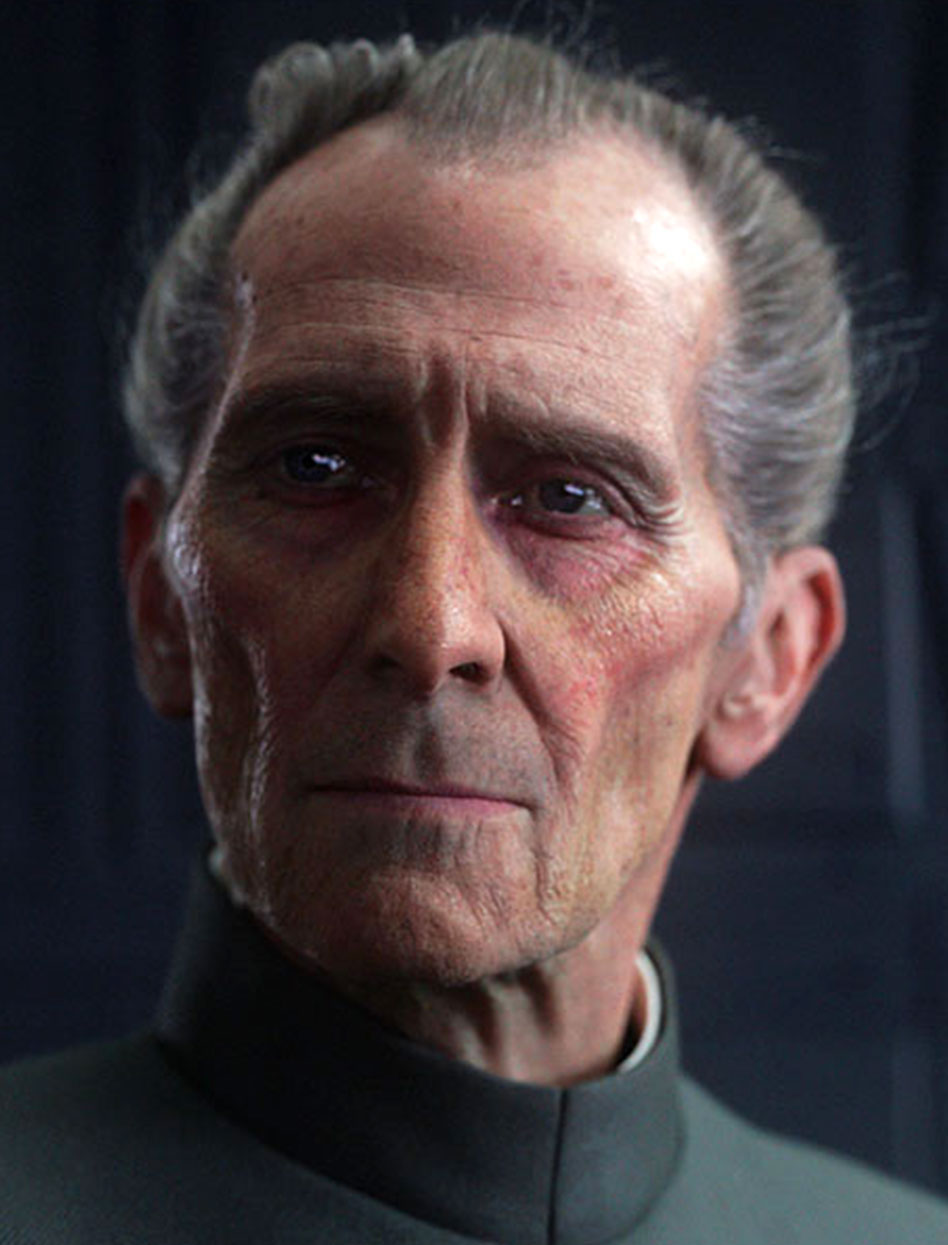
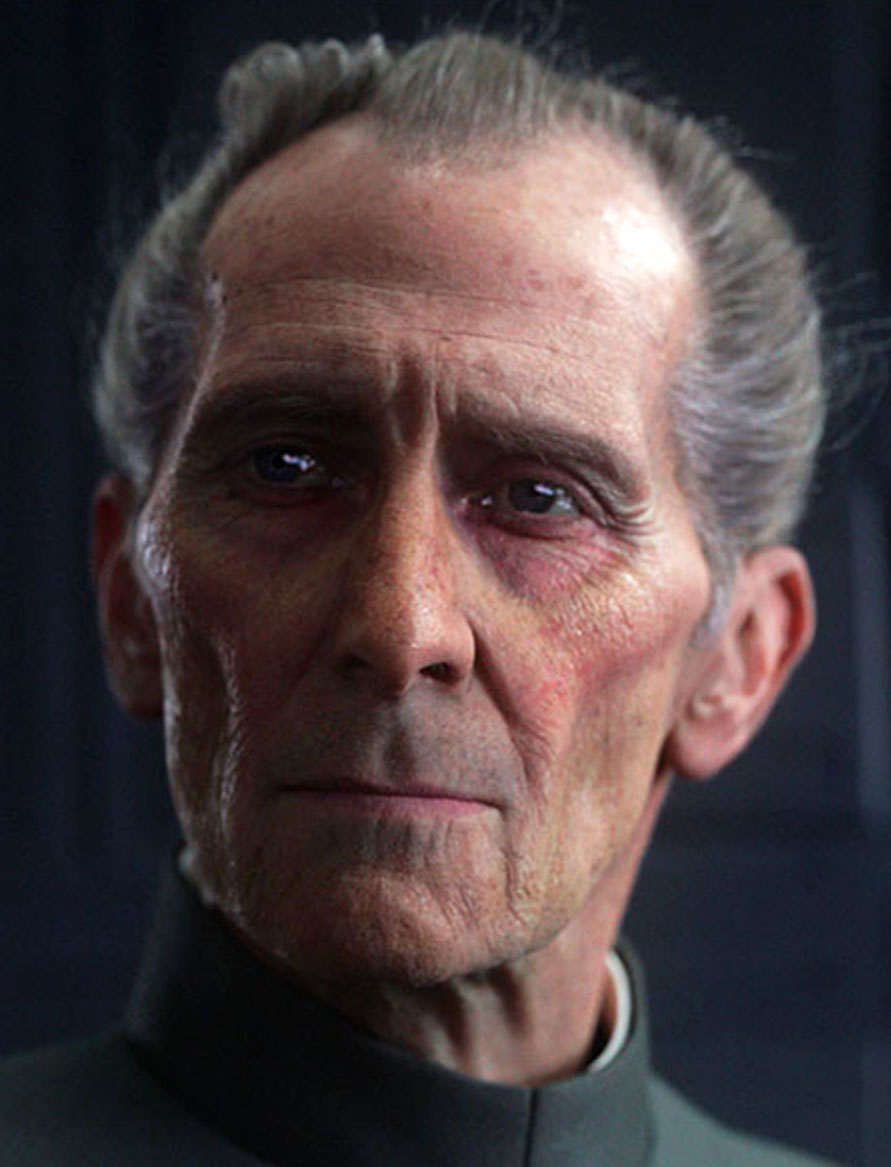
changed all images

diff --git a/projects/soundboard/index.html b/projects/soundboard/index.html
@@ -111,19 +111,19 @@
     .grievous {
       /* General Grievous */
       background-size: 100%;
-      background-image: url("http://www.gamernes9.com/hosting/images/projects/soundboard/grievous.png");
+      background-image: url("http://www.gamernes9.com/hosting/images/projects/soundboard/grievous.jpg");
     }
     
     .padme {
       /* Padme Amidalla */
       background-size: 125%;
-      background-image: url("http://www.gamernes9.com/hosting/images/projects/soundboard/padme.png");
+      background-image: url("http://www.gamernes9.com/hosting/images/projects/soundboard/padme.jpg");
     }
     
     .windu {
       /* Mace Windu */
       background-size: 125%;
-      background-image: url("http://www.gamernes9.com/hosting/images/projects/soundboard/windu.png");
+      background-image: url("http://www.gamernes9.com/hosting/images/projects/soundboard/windu.jpg");
     }
     
     .lucas-son {
@@ -177,7 +177,11 @@
 
     .babyanakin{
       background-size: 100%;
-      background-image: url("http://www.gamernes9.com/hosting/images/projects/soundboard/babyanakin.png");
+      background-image: url("http://www.gamernes9.com/hosting/images/projects/soundboard/babyanakin.jpg");
+    }
+    .qui-gon{
+      background-size: 100%;
+      background-image: url("http://www.gamernes9.com/hosting/images/projects/soundboard/qui-gon.png");
     }
     .soundbite .person:hover {
       border: 2px solid rgba(0, 102, 255, 0.5);
